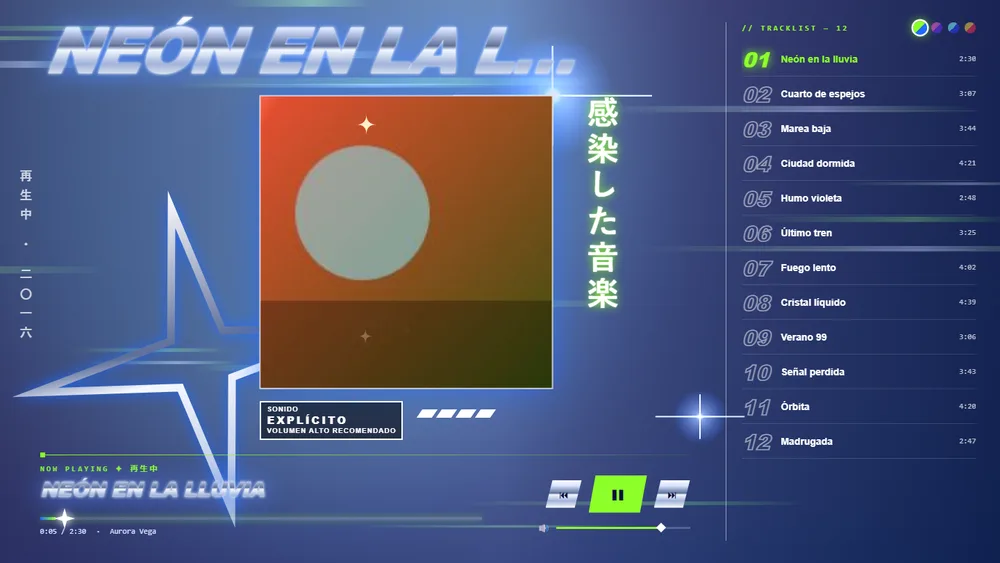
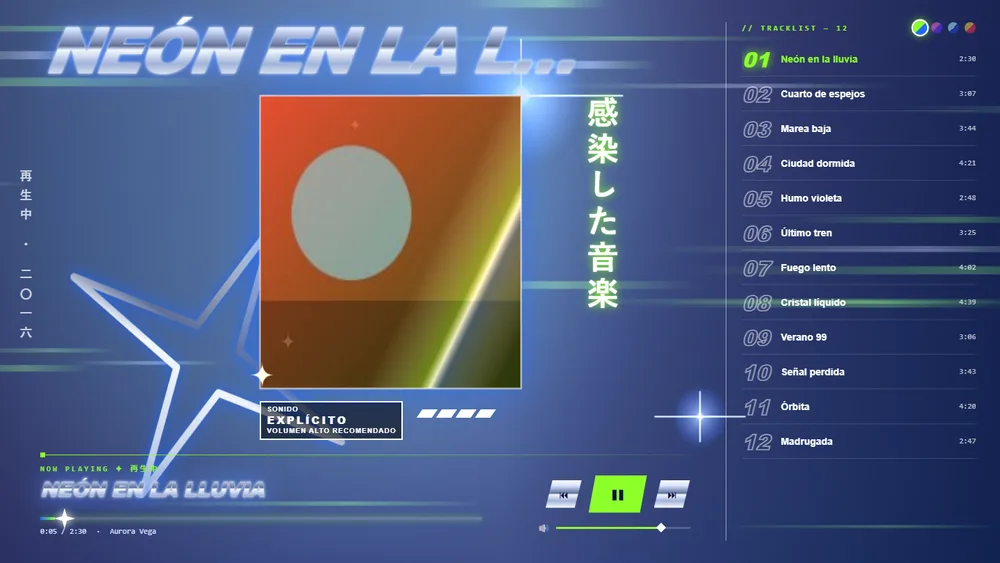
Neo Y2K: cada color con su figura y particulas (Chicle corazon y mariposas con barrido holografico; Hielo caratula que se congela, caramabanos y grietas con el bajo; Fuego corona de puas, llamaradas y brasas)

diff --git a/web/neoy2k.html b/web/neoy2k.html
@@ -103,12 +103,20 @@
 const $ = (id) => document.getElementById(id);
 const raiz = document.documentElement.style;
 
-// ---- Variantes de color: [verde, azul] ----
-const TEMAS = { "Ácido": ["#8cff2a", "#1f6bff"], "Chicle": ["#ff5fd8", "#6a2cff"], "Hielo": ["#7ff6ff", "#2a3cff"], "Fuego": ["#ffd23a", "#ff2a4a"] };
+// ---- Variantes: cada una con su color [acento, fondo], su figura de cromo, sus partículas y su japonés ----
+// Ácido = estrella y estelas · Chicle = corazón, mariposas y barrido holográfico · Hielo = diamante y escarcha · Fuego = sigilo tribal y brasas
+const TEMAS = { "Ácido": ["#8cff2a", "#1f6bff"], "Chicle": ["#ff5fd8", "#6a2cff"], "Hielo": ["#9ff8ff", "#1d3fd0"], "Fuego": ["#ffd23a", "#ff2a4a"] };
+const ESTILO = {
+  "Ácido": { forma: "estrella", jp: "感染した音楽", jp2: "再生中 ・ 二〇一六" },
+  "Chicle": { forma: "corazon", jp: "恋するビート", jp2: "かわいい ・ 二〇一七" },
+  "Hielo": { forma: null, jp: "氷の心臓", jp2: "アイスアウト ・ 二〇一八" },
+  "Fuego": { forma: "alambre", jp: "炎上中の音楽", jp2: "燃えろ ・ 二〇一九" },
+};
 let tema = "Ácido";
 function usarTema(n) {
   tema = n in TEMAS ? n : "Ácido";
   raiz.setProperty("--verde", TEMAS[tema][0]); raiz.setProperty("--azul", TEMAS[tema][1]);
+  $("jp").textContent = ESTILO[tema].jp; $("jp2").textContent = ESTILO[tema].jp2; document.body.dataset.tema = tema;
   document.querySelectorAll("#temas button").forEach(b => b.classList.toggle("elegido", b.dataset.t === tema));
   try { localStorage.setItem("tema-neoy2k", tema); } catch (e) {}
 }
@@ -145,6 +153,29 @@ const ESTELAS = Array.from({ length: 20 }, () => ({ y: rnd(), v: 300 + rnd() * 9
 const CHISPAS = Array.from({ length: 14 }, () => ({ x: rnd(), y: rnd(), f: rnd() * 6, r: 6 + rnd() * 12 }));
 const rgba = (hex, a) => { const n = parseInt(hex.slice(1), 16); return `rgba(${n >> 16},${(n >> 8) & 255},${n & 255},${a})`; };
 const chispa = (x, y, r, a) => { g.fillStyle = `rgba(255,255,255,${a})`; g.beginPath(); g.moveTo(x, y - r); g.quadraticCurveTo(x, y, x + r, y); g.quadraticCurveTo(x, y, x, y + r); g.quadraticCurveTo(x, y, x - r, y); g.quadraticCurveTo(x, y, x, y - r); g.fill(); };
+// Figuras de cromo (centradas en 0,0, tamaño e)
+function figura(forma, e) {
+  g.beginPath();
+  if (forma === "estrella") { for (let i = 0; i < 8; i++) { const rr = i % 2 ? e * .22 : e, a = i / 8 * Math.PI * 2 - Math.PI / 2; g.lineTo(Math.cos(a) * rr, Math.sin(a) * rr * .9); } g.closePath(); }
+  else if (forma === "corazon") { g.moveTo(0, e * .75); g.bezierCurveTo(-e * 1.25, -e * .1, -e * .55, -e * .95, 0, -e * .38); g.bezierCurveTo(e * .55, -e * .95, e * 1.25, -e * .1, 0, e * .75); }
+  else if (forma === "alambre") {   // corona de alambre de púas
+    g.ellipse(0, 0, e, e * .55, -.3, 0, Math.PI * 2);
+    for (let i = 0; i < 14; i++) { const a = i / 14 * Math.PI * 2, c = Math.cos(-.3), sn = Math.sin(-.3), px = Math.cos(a) * e, py = Math.sin(a) * e * .55, x = px * c - py * sn, y = px * sn + py * c, k = e * .07;
+      g.moveTo(x - k, y - k); g.lineTo(x + k, y + k); g.moveTo(x + k, y - k); g.lineTo(x - k, y + k); }
+  }
+}
+// Partículas propias de cada variante
+const MARIPOSAS = Array.from({ length: 6 }, (_, i) => ({ x: rnd(), y: rnd(), v: .02 + rnd() * .03, f: rnd() * 6, t: .6 + rnd() * .7 }));
+const COPOS = Array.from({ length: 70 }, () => ({ x: rnd(), y: rnd(), v: .01 + rnd() * .03, r: .8 + rnd() * 2.4, f: rnd() * 6 }));
+const BRASAS = Array.from({ length: 80 }, () => ({ x: rnd(), y: rnd(), v: .05 + rnd() * .12, r: 1 + rnd() * 2.5, f: rnd() * 6 }));
+function mariposa(x, y, s, aleteo, col) {
+  g.save(); g.translate(x, y); g.scale(s, s);
+  const q = g.createLinearGradient(-30, -30, 30, 30); q.addColorStop(0, "#fff"); q.addColorStop(.45, "#9aa2c8"); q.addColorStop(.55, "#f4f0ff"); q.addColorStop(1, col);
+  g.fillStyle = q; g.shadowColor = col; g.shadowBlur = 14;
+  for (const lado of [-1, 1]) { g.save(); g.scale(lado * aleteo, 1); g.beginPath(); g.moveTo(0, 0); g.bezierCurveTo(10, -40, 44, -34, 34, -6); g.bezierCurveTo(30, 6, 12, 4, 0, 0);
+    g.bezierCurveTo(14, 8, 30, 22, 18, 34); g.bezierCurveTo(8, 38, 2, 16, 0, 0); g.fill(); g.restore(); }
+  g.fillStyle = "#2a0848"; g.fillRect(-1.5, -14, 3, 34); g.restore();
+}
 let suave = 0;
 R.cadaCuadro((t) => {
   if (cv.width !== innerWidth || cv.height !== innerHeight) { cv.width = innerWidth; cv.height = innerHeight; }
@@ -159,32 +190,113 @@ R.cadaCuadro((t) => {
   const v = g.createLinearGradient(0, 0, W, 0); v.addColorStop(0, "rgba(4,16,58,.55)"); v.addColorStop(.5, "rgba(4,16,58,.1)"); v.addColorStop(1, "rgba(4,16,58,.72)"); g.fillStyle = v; g.fillRect(0, 0, W, H);
   // estelas de movimiento y destellos de lente
   g.globalCompositeOperation = "lighter";
-  for (const e of ESTELAS) { const x = ((e.x0 + t * e.v) % (W + e.l)) - e.l, q = g.createLinearGradient(x, 0, x + e.l, 0);
-    q.addColorStop(0, rgba(verde, 0)); q.addColorStop(.6, e.blanca ? `rgba(255,255,255,${.22 + suave * .25})` : rgba(verde, .2 + suave * .25)); q.addColorStop(1, rgba(verde, 0));
-    g.fillStyle = q; g.fillRect(x, e.y * H, e.l, e.gr); }
+  const est = ESTILO[tema];
+  if (tema === "Fuego") {   // llamaradas que suben en vez de estelas que cruzan
+    for (const e of ESTELAS) { const y = H - ((e.x0 + t * e.v * .7) % (H + e.l)), x = e.y * W, q = g.createLinearGradient(0, y, 0, y + e.l);
+      q.addColorStop(0, rgba(verde, 0)); q.addColorStop(.4, e.blanca ? `rgba(255,240,200,${.2 + suave * .3})` : rgba(azul, .22 + suave * .3)); q.addColorStop(1, rgba(verde, 0));
+      g.fillStyle = q; g.fillRect(x, y, e.gr * .8, e.l); }
+    for (const b of BRASAS) { const y = H - ((b.y * H + t * b.v * H) % H), x = b.x * W + Math.sin(t * 2 + b.f) * 14, a = .5 + .5 * Math.sin(t * 9 + b.f);
+      g.fillStyle = `rgba(255,${150 + a * 80},60,${.35 + a * .5})`; g.beginPath(); g.arc(x, y, b.r * (1 + suave * .6), 0, 7); g.fill(); }
+  } else {
+    const n = tema === "Ácido" ? ESTELAS.length : 9;   // las otras variantes llevan menos estelas: el protagonismo es de sus partículas
+    for (const e of ESTELAS.slice(0, n)) { const x = ((e.x0 + t * e.v * (tema === "Hielo" ? .35 : 1)) % (W + e.l)) - e.l, q = g.createLinearGradient(x, 0, x + e.l, 0);
+      q.addColorStop(0, rgba(verde, 0)); q.addColorStop(.6, e.blanca || tema === "Hielo" ? `rgba(255,255,255,${.2 + suave * .25})` : rgba(verde, .2 + suave * .25)); q.addColorStop(1, rgba(verde, 0));
+      g.fillStyle = q; g.fillRect(x, e.y * H, e.l, e.gr); }
+  }
+  if (tema === "Hielo") for (const c of COPOS) {   // escarcha que sube lento y titila
+    const y = H - ((c.y * H + t * c.v * H) % H), x = c.x * W + Math.sin(t * .8 + c.f) * 10, a = Math.max(0, Math.sin(t * 2 + c.f)) ** 2;
+    g.fillStyle = `rgba(230,250,255,${.25 + a * .6})`; g.beginPath(); g.arc(x, y, c.r, 0, 7); g.fill();
+    if (a > .85) chispa(x, y, c.r * 5, (a - .85) * 5);
+  }
   const r = $("portada").getBoundingClientRect();
   const flare = (x, y, rr) => { const q = g.createRadialGradient(x, y, 0, x, y, rr); q.addColorStop(0, "rgba(255,255,255,.9)"); q.addColorStop(.15, "rgba(190,225,255,.45)"); q.addColorStop(1, rgba(azul, 0));
     g.fillStyle = q; g.fillRect(x - rr, y - rr, rr * 2, rr * 2); g.fillStyle = "rgba(255,255,255,.7)"; g.fillRect(x - rr * 1.6, y - 1, rr * 3.2, 2); g.fillRect(x - 1, y - rr * .8, 2, rr * 1.6); };
   flare(r.right, r.top, 80 + suave * 60); flare(W * .7, H * .74, 36 + suave * 26);
   g.globalCompositeOperation = "source-over";
-  // estrella de cromo que gira, detrás de la esquina de la carátula
-  const er = r.width * .58; g.save(); g.translate(r.left - r.width * .2, r.bottom - r.width * .1); g.rotate(-.25 + t * .15); g.beginPath();
-  for (let i = 0; i < 8; i++) { const rr = i % 2 ? er * .22 : er, a = i / 8 * Math.PI * 2 - Math.PI / 2; g.lineTo(Math.cos(a) * rr, Math.sin(a) * rr * .9); }
-  g.closePath(); const cs = g.createLinearGradient(0, -er, 0, er); cs.addColorStop(0, "#fff"); cs.addColorStop(.45, "#5e6f9a"); cs.addColorStop(.55, "#f4f8ff"); cs.addColorStop(1, "#9fb2d8");
-  g.strokeStyle = cs; g.lineWidth = Math.max(5, er * .045); g.shadowColor = rgba(azul, .9); g.shadowBlur = 20; g.stroke(); g.restore();
+  // figura de cromo detrás de la esquina de la carátula (Hielo no lleva: su protagonista es la carátula congelada)
+  const forma = est.forma;
+  if (forma) {
+    const er = r.width * .58, gira = forma === "estrella" ? -.25 + t * .15 : Math.sin(t * .6) * .18;
+    g.save(); g.translate(r.left - r.width * .2, r.bottom - r.width * .1); g.rotate(gira); g.scale(1 + suave * .05, 1 + suave * .05); figura(forma, er);
+    const cs = g.createLinearGradient(0, -er, 0, er); cs.addColorStop(0, "#fff"); cs.addColorStop(.45, "#5e6f9a"); cs.addColorStop(.55, "#f4f8ff"); cs.addColorStop(1, "#9fb2d8");
+    g.strokeStyle = cs; g.lineWidth = Math.max(5, er * .045); g.lineCap = g.lineJoin = "round"; g.shadowColor = rgba(azul, .9); g.shadowBlur = 20; g.stroke(); g.restore();
+  }
+  if (tema === "Chicle") for (const m of MARIPOSAS) {   // mariposas de cromo que cruzan aleteando
+    const x = ((m.x + t * m.v) % 1.2 - .1) * W, y = m.y * H * .85 + Math.sin(t * .9 + m.f) * 30;
+    mariposa(x, y, m.t * (H / 810), .35 + .65 * Math.abs(Math.sin(t * 5 + m.f)), azul);
+  }
   // la carátula: brillo que late con el bajo, barrido diagonal cada 3 s y destellos que se prenden y apagan
   const { left: X, top: Y, width: S } = r;
   g.save(); g.shadowColor = rgba(azul, .6 + suave * .4); g.shadowBlur = 40 + suave * 50; g.fillStyle = "#000"; g.fillRect(X, Y, S, S); g.restore();
   if (caratula) g.drawImage(caratula, X, Y, S, S); else { g.fillStyle = azul; g.fillRect(X, Y, S, S); }
   g.save(); g.beginPath(); g.rect(X, Y, S, S); g.clip(); g.globalCompositeOperation = "lighter";
   const bx = X - S * .75 + ((t % 3) / 3) * S * 2.5, sw = g.createLinearGradient(-S * .22, 0, S * .22, 0);
-  sw.addColorStop(0, "rgba(255,255,255,0)"); sw.addColorStop(.42, rgba(verde, .3)); sw.addColorStop(.5, "rgba(255,255,255,.7)"); sw.addColorStop(.58, rgba(azul, .3)); sw.addColorStop(1, "rgba(255,255,255,0)");
+  if (tema === "Chicle") ["rgba(255,255,255,0)", "rgba(255,120,220,.35)", "rgba(170,140,255,.4)", "rgba(110,240,255,.5)", "rgba(200,255,140,.4)", "rgba(255,240,160,.35)", "rgba(255,255,255,0)"].forEach((c, i, a) => sw.addColorStop(i / (a.length - 1), c));   // holográfico
+  else { sw.addColorStop(0, "rgba(255,255,255,0)"); sw.addColorStop(.42, rgba(verde, .3)); sw.addColorStop(.5, "rgba(255,255,255,.7)"); sw.addColorStop(.58, rgba(azul, .3)); sw.addColorStop(1, "rgba(255,255,255,0)"); }
   g.fillStyle = sw; g.translate(bx, Y + S / 2); g.rotate(.5); g.fillRect(-S * .22, -S, S * .44, S * 2); g.restore();
   g.save(); g.globalCompositeOperation = "lighter";
   for (const c of CHISPAS) { const a = Math.max(0, Math.sin(t * 3 + c.f)) ** 4; if (a > .02) chispa(X + c.x * S, Y + c.y * S, c.r * (.6 + a * .6) * S / 400, a * .95); }
   g.restore();
+  if (tema === "Hielo") congelar(t, X, Y, S);
   g.strokeStyle = "rgba(255,255,255,.7)"; g.lineWidth = 2; g.strokeRect(X, Y, S, S);
 });
+
+// ---- Hielo: escarcha que avanza desde los bordes, carámbanos de cromo arriba y grietas cuando pega el bajo ----
+const ESCARCHA = (() => {   // ramitas de hielo que crecen desde los 4 bordes hacia adentro (se dibuja una vez)
+  const c = document.createElement("canvas"); c.width = c.height = 512; const x = c.getContext("2d");
+  const borde = x.createRadialGradient(256, 256, 150, 256, 256, 380); borde.addColorStop(0, "rgba(235,250,255,0)"); borde.addColorStop(.6, "rgba(235,250,255,.3)"); borde.addColorStop(1, "rgba(245,252,255,.95)");
+  x.fillStyle = borde; x.fillRect(0, 0, 512, 512);
+  x.strokeStyle = "rgba(245,252,255,.75)"; x.lineCap = "round";
+  const rama = (px, py, ang, largo, grosor, nivel) => {
+    if (nivel > 4 || largo < 4) return;
+    const nx = px + Math.cos(ang) * largo, ny = py + Math.sin(ang) * largo;
+    x.lineWidth = grosor; x.beginPath(); x.moveTo(px, py); x.lineTo(nx, ny); x.stroke();
+    for (let k = 1; k <= 3; k++) { const f = k / 4, bx = px + (nx - px) * f, by = py + (ny - py) * f;
+      rama(bx, by, ang + (k % 2 ? 1 : -1) * Math.PI / 3, largo * (.3 + rnd() * .15), grosor * .6, nivel + 1); }   // 60°: como cristal de hielo, no como rama de árbol
+    rama(nx, ny, ang, largo * .5, grosor * .75, nivel + 1);
+  };
+  for (let i = 0; i < 80; i++) {
+    const lado = i % 4, p = rnd() * 512, largo = 18 + rnd() * 48;
+    const [px, py, ang] = lado === 0 ? [p, 0, Math.PI / 2] : lado === 1 ? [p, 512, -Math.PI / 2] : lado === 2 ? [0, p, 0] : [512, p, Math.PI];
+    rama(px, py, ang + (rnd() - .5) * .5, largo, 1.8, 0);
+  }
+  return c;
+})();
+const CARAMBANOS = Array.from({ length: 11 }, (_, i) => ({ x: (i + .3 + rnd() * .4) / 11, l: .05 + rnd() * .12, w: .025 + rnd() * .02, f: rnd() * 6 }));
+let grieta = null, ultimaGrieta = -9;
+function congelar(t, X, Y, S) {
+  // la escarcha "respira": entra más con el bajo y retrocede lento
+  const cubre = 1.16 - suave * .14 + Math.sin(t * .35) * .03;
+  g.save(); g.beginPath(); g.rect(X, Y, S, S); g.clip(); g.globalAlpha = .9;
+  g.drawImage(ESCARCHA, X + S / 2 - S * cubre / 2, Y + S / 2 - S * cubre / 2, S * cubre, S * cubre); g.globalAlpha = 1;
+  // grieta: aparece con un golpe fuerte, con destello, y se desvanece
+  const bajo = suave;
+  if (!grieta && bajo > .72 && t - ultimaGrieta > 2.5) {
+    ultimaGrieta = t; const cx = .25 + rnd() * .5, cy = .25 + rnd() * .5;
+    grieta = { t, cx, cy, rayos: Array.from({ length: 9 }, (_, i) => { const a = i / 9 * Math.PI * 2 + rnd() * .4; let px = 0, py = 0; const pts = [[0, 0]];
+      for (let k = 0; k < 6; k++) { const d = .05 + rnd() * .06, aa = a + (rnd() - .5) * .5; px += Math.cos(aa) * d; py += Math.sin(aa) * d; pts.push([px, py]); } return pts; }) };
+  }
+  if (grieta) {
+    const vida = (t - grieta.t) / 1.6;
+    if (vida >= 1) grieta = null;
+    else {
+      const a = 1 - vida, ox = X + grieta.cx * S, oy = Y + grieta.cy * S;
+      g.fillStyle = `rgba(230,250,255,${.35 * Math.max(0, 1 - vida * 5)})`; g.fillRect(X, Y, S, S);   // destello del golpe
+      g.strokeStyle = `rgba(255,255,255,${.9 * a})`; g.shadowColor = "rgba(160,240,255,.9)"; g.shadowBlur = 8; g.lineWidth = 1.6;
+      for (const rayo of grieta.rayos) { g.beginPath(); rayo.forEach(([px, py], k) => k ? g.lineTo(ox + px * S, oy + py * S) : g.moveTo(ox, oy)); g.stroke(); }
+      g.lineWidth = 1; g.beginPath(); for (const rr of [.06, .13]) { for (let k = 0; k <= 9; k++) { const p = grieta.rayos[k % 9][Math.round(rr * 30)] || [0, 0]; k ? g.lineTo(ox + p[0] * S, oy + p[1] * S) : g.moveTo(ox + p[0] * S, oy + p[1] * S); } } g.stroke();
+      g.shadowBlur = 0;
+    }
+  }
+  g.restore();
+  // carámbanos de cromo colgando del borde de arriba, con una gota que cae de vez en cuando
+  for (const c of CARAMBANOS) {
+    const x = X + c.x * S, w = c.w * S, l = c.l * S * (1 + Math.sin(t * .5 + c.f) * .04);
+    const q = g.createLinearGradient(x - w / 2, 0, x + w / 2, 0); q.addColorStop(0, "#9fb2d8"); q.addColorStop(.35, "#ffffff"); q.addColorStop(.5, "#5e6f9a"); q.addColorStop(.65, "#eef6ff"); q.addColorStop(1, "#8fa6d0");
+    g.fillStyle = q; g.shadowColor = "rgba(160,240,255,.8)"; g.shadowBlur = 10; g.beginPath(); g.moveTo(x - w / 2, Y); g.quadraticCurveTo(x - w * .1, Y + l * .6, x, Y + l); g.quadraticCurveTo(x + w * .1, Y + l * .6, x + w / 2, Y); g.fill(); g.shadowBlur = 0;
+    const ciclo = (t * .4 + c.f) % 3; if (ciclo < 1) { g.fillStyle = `rgba(220,250,255,${1 - ciclo})`; g.beginPath(); g.arc(x, Y + l + ciclo * S * .5, 2.2, 0, 7); g.fill(); }
+  }
+}
 </script>
 </body>
 </html>
